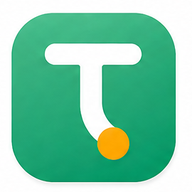
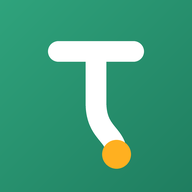
fix(mobile): icônes PWA plein cadre sans bordure blanche + variante maskable
Régénère icon-192/512 et apple-touch-icon depuis la géométrie du Logo
(T blanc + point orange), fond vert étendu jusqu'aux bords, opaque, sans
coins arrondis. Ajoute icon-maskable-192/512 (logo dans la zone sûre) et
déclare purpose any/maskable séparément dans le manifest.

diff --git a/apps/mobile/vite.config.ts b/apps/mobile/vite.config.ts
@@ -63,9 +63,10 @@ export default defineConfig({
         display: "standalone",
         start_url: "/",
         icons: [
-          { src: "/icon-192.png", sizes: "192x192", type: "image/png" },
-          { src: "/icon-512.png", sizes: "512x512", type: "image/png" },
-          { src: "/icon-512.png", sizes: "512x512", type: "image/png", purpose: "maskable" },
+          { src: "/icon-192.png", sizes: "192x192", type: "image/png", purpose: "any" },
+          { src: "/icon-512.png", sizes: "512x512", type: "image/png", purpose: "any" },
+          { src: "/icon-maskable-192.png", sizes: "192x192", type: "image/png", purpose: "maskable" },
+          { src: "/icon-maskable-512.png", sizes: "512x512", type: "image/png", purpose: "maskable" },
         ],
       },
     }),
